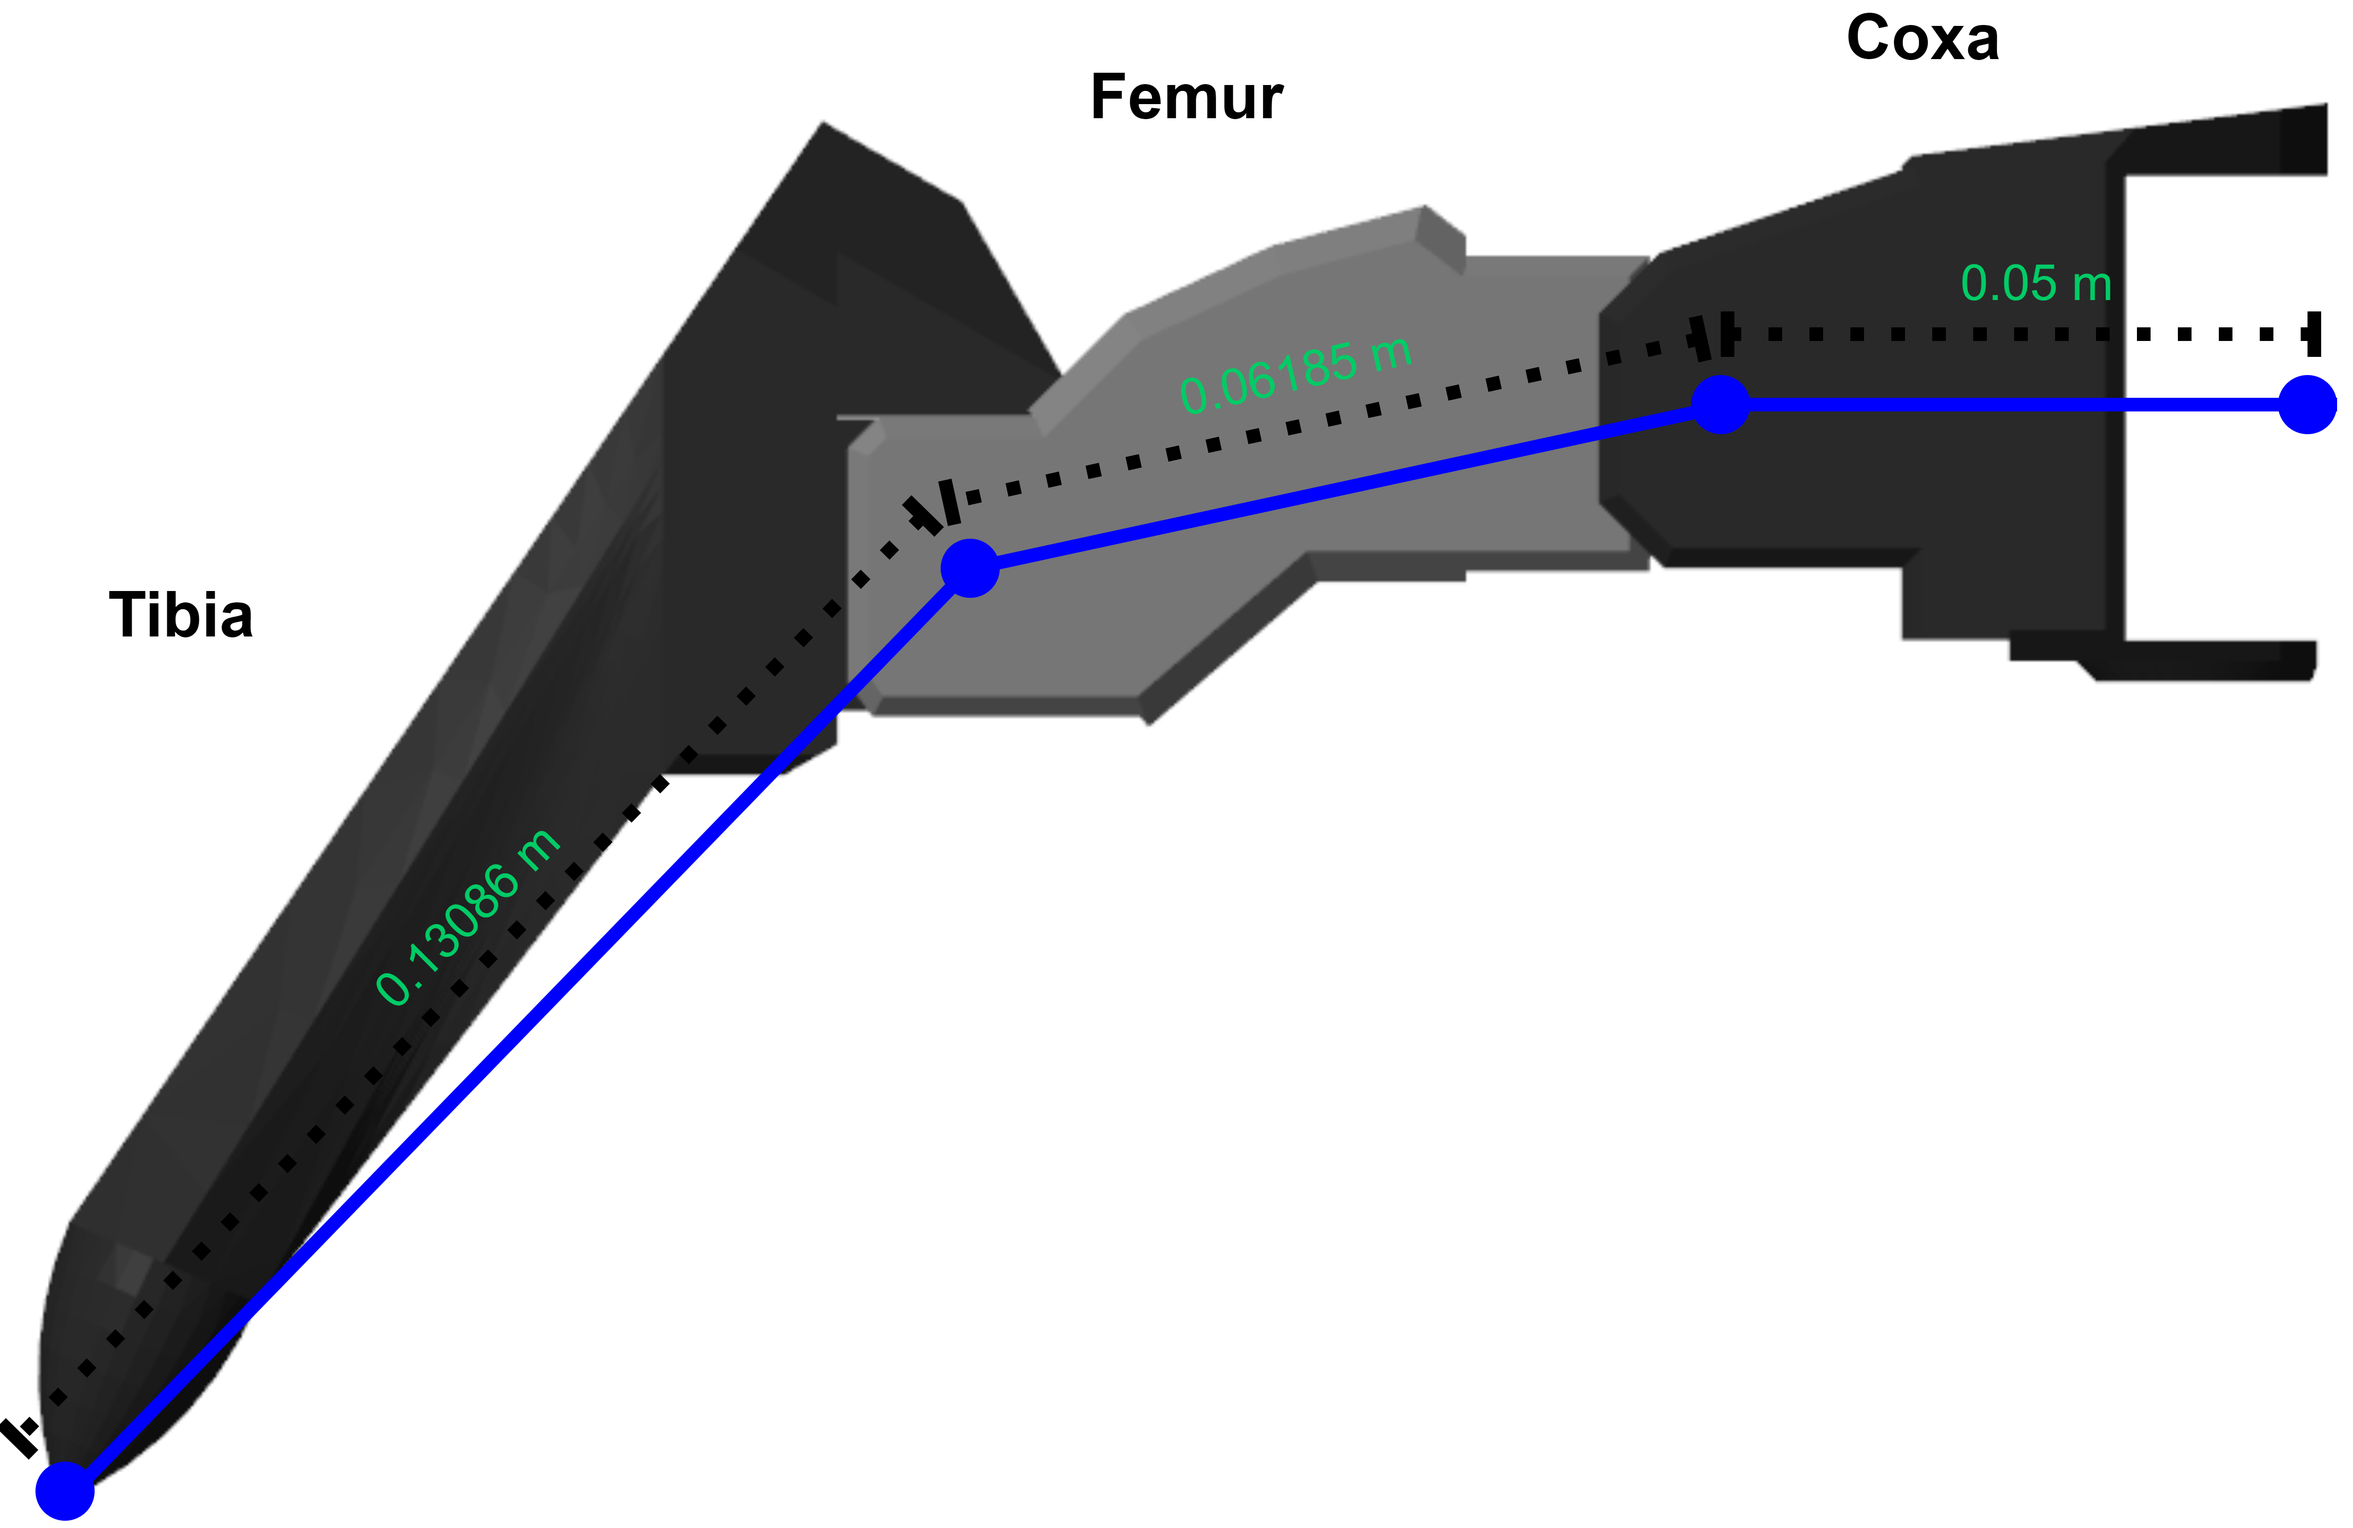
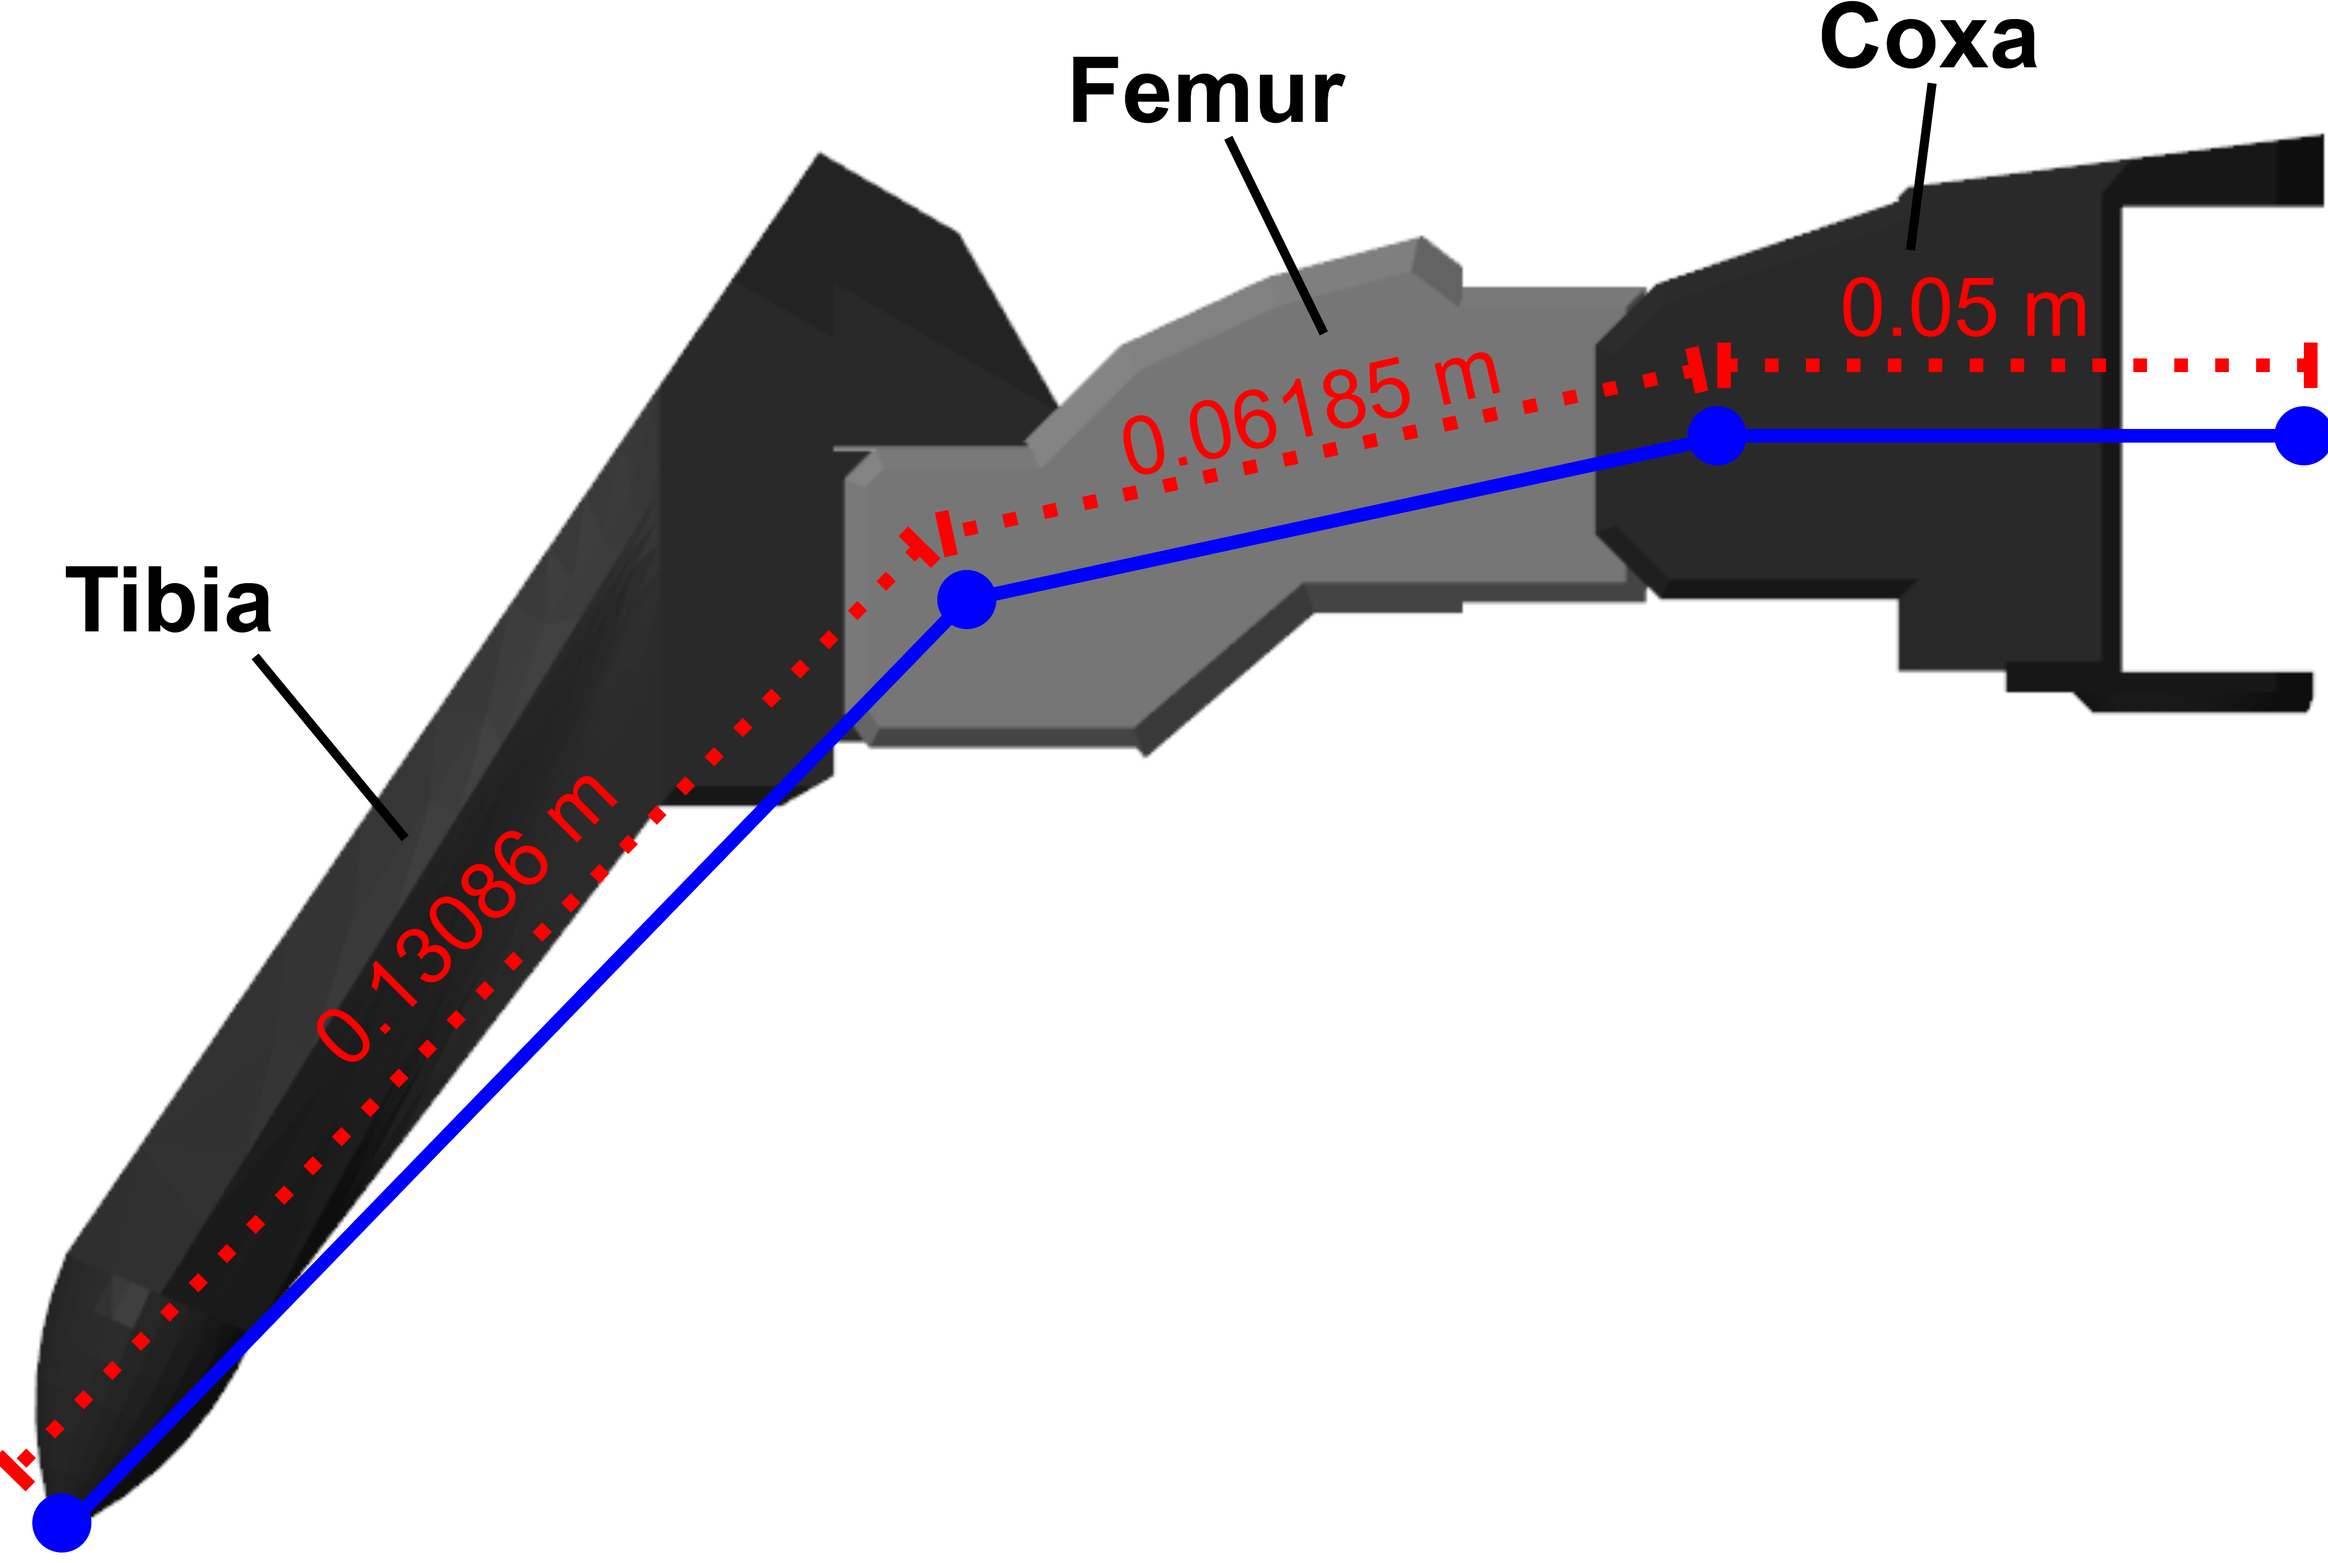
Changed font sizes of several images, progress in results and conclusions chapters

diff --git a/documents/chapter/conclusions.tex b/documents/chapter/conclusions.tex
@@ -9,19 +9,36 @@ Finally, we will provide an outlook towards possibly interesting future expansio
 %\todo{Maybe do not use sections(these are equal to thesis of Josef Treus[Power Attacks])}
 
 \section{Conclusions}
-Mentions problems in RL.
-Sparse reward definition might have played a role in the bad performance of the agents \parencite{matheron2019problem}.
-
-
-
+In this section we draw the conclusions out of our obtained results.
+We also divide these into findings about the model + locomotion controller and the RL training.
 
 \subsection{Model and Controller}
-MATLAB Simulink proved to be a valuable and reliable platform for the modeling and simulation of hexapod robots.
+MATLAB Simulink proved to be a versatile and reliable platform for the modelling and simulation of robotic systems.
+The development of the hexapod model was greatly sped up by the underlying MATLAB framework and the utilisation of the provided toolboxes.
+The ability to write MATLAB-scripts to automate several task, like the initialisation of the hexapod model or the setup of the RL agents and surrounding infrastructure. 
+
 \todo{Evaluate MATLAB Simulink in more detail}
 
 \subsection{RL Leg Coordination}
 We found the learning of the RL agents to progress quite slow. 
 This could probably be improved on significantly by more carefully tuning the agents parameters and a more detailed reward function.
+
+Our suggestions for future researchers attempting to apply RL to the leg coordination problems are the following:
+\begin{enumerate}
+	\item Do not change the underlying hexapod model during experimentation with different RL agents. 
+	These changes make it difficult to compare the performance of RL parameter sets.
+	The hexapod model should be meticulously tested prior to the application of RL.
+	As our main goal was to provide the best-performing hexapod model, we decided to rather fix mistakes we discovered, sacrificing on comparability .
+	
+	\item Automate the process of running several agents with different parameter sets. 
+	By automating this task, the speed of exploration in the parameter space could be greatly increased.
+	
+	\item Meticulously collect the data of each agent's performance to be able discover trends on which parameter values might work well.
+	
+\end{enumerate}
+
+Mentions problems in RL.
+%Sparse reward definition might have played a role in the bad performance of the agents \parencite{matheron2019problem}.
 
 
 

diff --git a/documents/chapter/methods.tex b/documents/chapter/methods.tex
@@ -341,11 +341,9 @@ Where $\beta_1$, $\beta_2$, $\gamma_1$ and \text{BF} are given by:
 \]
 
 To create the Analytical IK block, we translate the derived equations into C-code.
-The resulting script is then run inside a \textit{MATLAB code block} for each simulation step.
-The implemented code can takes the trajectory coordinates and joint offsets as inputs.
+The implemented code (\textit{InverseKinematics.c}) is then run inside a \textit{MATLAB code block} for each simulation step.
 As the hexapods initial joint positions deviate from the ones displayed in Fig. \ref{figure: IK angle derivations}, we require the offsets to convert the angles calculated by the solver to match these differing initial positions.
-The offsets are given in table \ref{table: Joint position offsets}.
-Fig. X. \todo{Add code}
+The offsets are given in table \ref{table:Joint position offsets}.
 
 
 \section{Learning Leg Coordination} \label{sec: RL setup}
@@ -517,7 +515,7 @@ As can be seen in Fig. \ref{figure: Hexapod proportions}, the front and back leg
 			right front, left back & -45 & 14.03624347 & 60.58440117 \\
 			\hline
 		\end{tabular}
-		\caption[Joint position offsets]{}
+		\caption[Joint position offsets]{Joint angle offsets. In addition to the \textbeta- and \textgamma-offset present in all joints, the front and back legs also have an offset applied to the \textalpha-joint, as these legs are connected to the thorax in a 45° angle.}
 		\label{table:Joint position offsets}
 	\end{table}
 }

diff --git a/documents/chapter/videoResources.tex b/documents/chapter/videoResources.tex
@@ -5,9 +5,9 @@ List of the video recordings we created of each of the locomotion controller ite
 Each link leads to a Youtube playlist containing several videos.
 
 \begin{itemize} 
-	\item \href{https://www.youtube.com/playlist?list=PLS4sTWHhl8ch8N8BN3j6T0ZQ_9AVyyJ_g}{\texttt{Hexapod MK1 controller}}. Initial tests of first controller version, capable of tripod gait. \label{vid: MK1}
+	\item \href{https://www.youtube.com/playlist?list=PLS4sTWHhl8ch8N8BN3j6T0ZQ_9AVyyJ_g}{\texttt{Hexapod MK1 controller}}: Initial tests of first controller version, capable of tripod gait. \label{vid: MK1}
 	
-	\item \href{https://www.youtube.com/playlist?list=PLS4sTWHhl8cj9ypZECQ52zXKAU14XlxXN}{\texttt{Hexapod MK2 controller}}. Expanded capabilities to tetrapod and wave gait. \label{vid: MK2}
+	\item \href{https://www.youtube.com/playlist?list=PLS4sTWHhl8cj9ypZECQ52zXKAU14XlxXN}{\texttt{Hexapod MK2 controller}}: Expanded capabilities to tetrapod and wave gait. \label{vid: MK2}
 	
-	\item \href{https://www.youtube.com/playlist?list=PLS4sTWHhl8ch6pUkxzVL7x9Dk8ctq-gox}{\texttt{Hexapod MK3 controller}}. Improved stability, omnidirectional movement. \label{vid: MK3}
+	\item \href{https://www.youtube.com/playlist?list=PLS4sTWHhl8ch6pUkxzVL7x9Dk8ctq-gox}{\texttt{Hexapod MK3 controller}}: Improved stability, omnidirectional movement. \label{vid: MK3}
 \end{itemize}
